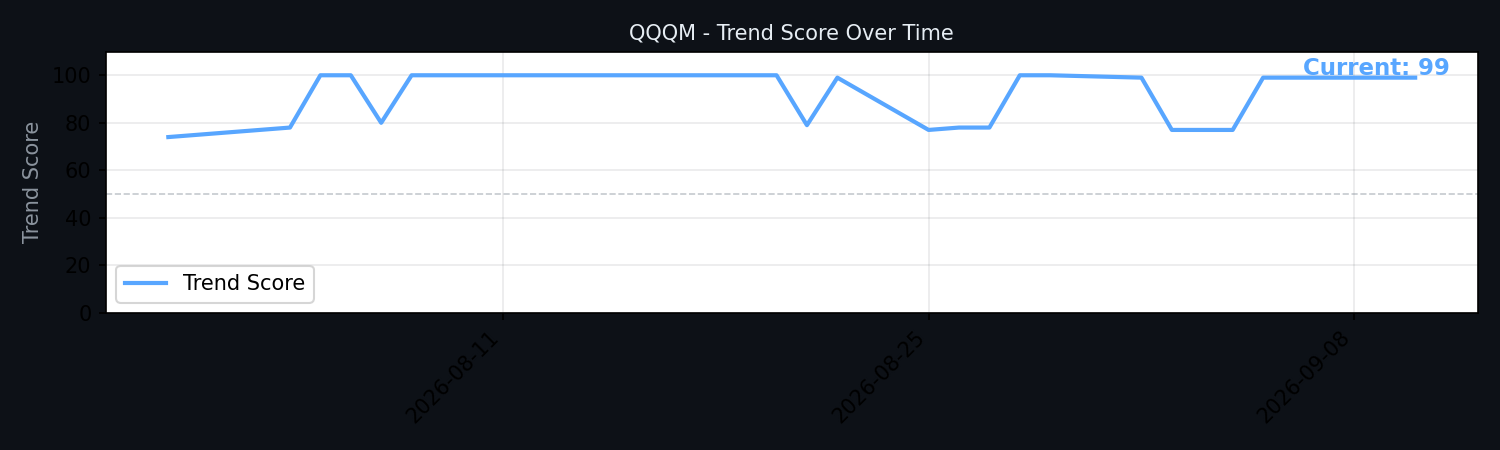
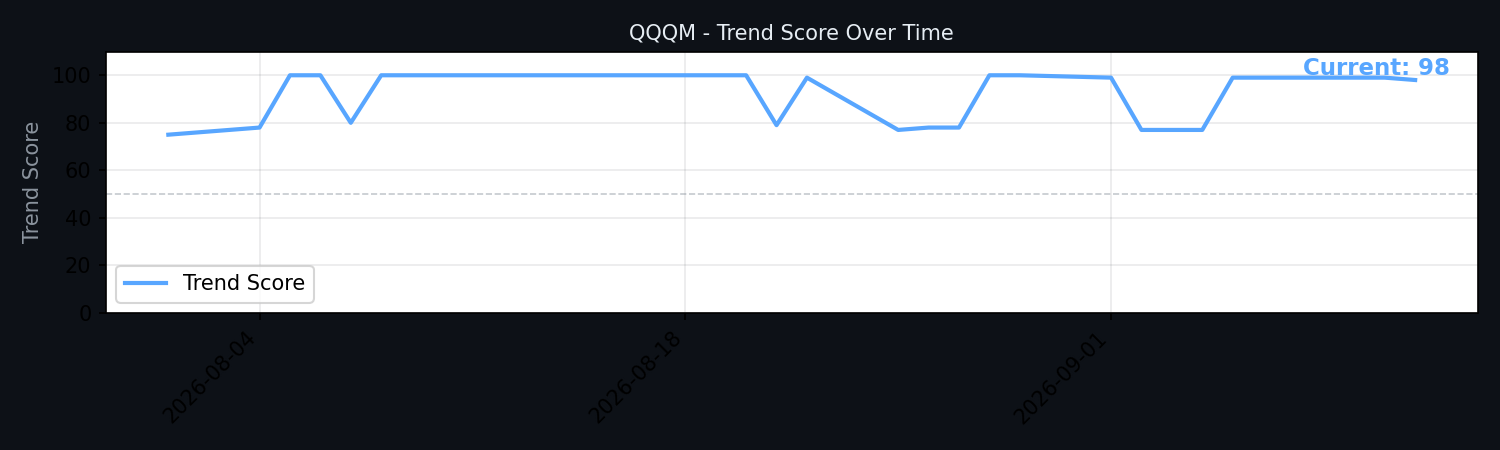
chore: update dashboard snapshot

diff --git a/docs/index.html b/docs/index.html
@@ -62,32 +62,32 @@
 </head>
 <body>
     <h1>📊 Quant Trade Bot</h1>
-    <div class="subtitle">Daily snapshot · 2026-09-10 08:53 (GMT+8)</div>
-
-    <div class="card">
-        <h2>CSPX (iShares Core S&P 500 UCITS ETF)</h2>
-        <img src="trend_CSPX.L.png" alt="Trend Score History" style="width:100%; max-width:900px; border-radius:8px; margin-bottom:20px; border:1px solid #30363d;">
-        <div class="row"><span class="label">Latest Close</span><span class="value">$829.55</span></div>
-        <div class="row"><span class="label">Trend Score</span><span class="value">97/100</span></div>
-        <div class="row"><span class="label">Momentum Score</span><span class="value">58/100</span></div>
-        <div class="row"><span class="label">Historical Match</span><span class="value">531 occurrences</span></div>
-        <div class="row"><span class="label">90-day Win Rate</span><span class="value">78.3%</span></div>
-        <div class="row"><span class="label">Suggested Action</span><span class="value"><span class="badge badge-buy">✅ Historically high win rate for this structure. Consider maintaining or slightly increasing your DCA.</span></span></div>
-    </div>
+    <div class="subtitle">Daily snapshot · 2026-09-11 08:51 (GMT+8)</div>
 
     <div class="card">
         <h2>QQQM (Invesco NASDAQ 100 ETF)</h2>
         <img src="trend_QQQM.png" alt="Trend Score History" style="width:100%; max-width:900px; border-radius:8px; margin-bottom:20px; border:1px solid #30363d;">
-        <div class="row"><span class="label">Latest Close</span><span class="value">$295.76</span></div>
-        <div class="row"><span class="label">Trend Score</span><span class="value">99/100</span></div>
-        <div class="row"><span class="label">Momentum Score</span><span class="value">52/100</span></div>
-        <div class="row"><span class="label">Historical Match</span><span class="value">121 occurrences</span></div>
-        <div class="row"><span class="label">90-day Win Rate</span><span class="value">76.0%</span></div>
+        <div class="row"><span class="label">Latest Close</span><span class="value">$294.97</span></div>
+        <div class="row"><span class="label">Trend Score</span><span class="value">98/100</span></div>
+        <div class="row"><span class="label">Momentum Score</span><span class="value">60/100</span></div>
+        <div class="row"><span class="label">Historical Match</span><span class="value">134 occurrences</span></div>
+        <div class="row"><span class="label">90-day Win Rate</span><span class="value">77.6%</span></div>
+        <div class="row"><span class="label">Suggested Action</span><span class="value"><span class="badge badge-buy">✅ Historically high win rate for this structure. Consider maintaining or slightly increasing your DCA.</span></span></div>
+    </div>
+
+    <div class="card">
+        <h2>CSPX (iShares Core S&P 500 UCITS ETF)</h2>
+        <img src="trend_CSPX.L.png" alt="Trend Score History" style="width:100%; max-width:900px; border-radius:8px; margin-bottom:20px; border:1px solid #30363d;">
+        <div class="row"><span class="label">Latest Close</span><span class="value">$823.45</span></div>
+        <div class="row"><span class="label">Trend Score</span><span class="value">96/100</span></div>
+        <div class="row"><span class="label">Momentum Score</span><span class="value">40/100</span></div>
+        <div class="row"><span class="label">Historical Match</span><span class="value">257 occurrences</span></div>
+        <div class="row"><span class="label">90-day Win Rate</span><span class="value">80.2%</span></div>
         <div class="row"><span class="label">Suggested Action</span><span class="value"><span class="badge badge-buy">✅ Historically high win rate for this structure. Consider maintaining or slightly increasing your DCA.</span></span></div>
     </div>
 
     <div class="footer">
-        Updated: 2026-09-10 08:53 (GMT+8) · <a href="https://t.me/ETF_Trend_Monitor" target="_blank">Telegram Channel</a> · <a href="https://github.com/kzyxx11/quant_trade_bot" target="_blank">GitHub</a>
+        Updated: 2026-09-11 08:51 (GMT+8) · <a href="https://t.me/ETF_Trend_Monitor" target="_blank">Telegram Channel</a> · <a href="https://github.com/kzyxx11/quant_trade_bot" target="_blank">GitHub</a>
     </div>
 </body>
 </html>
